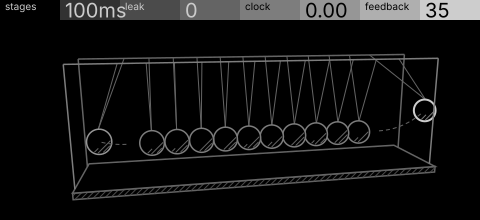
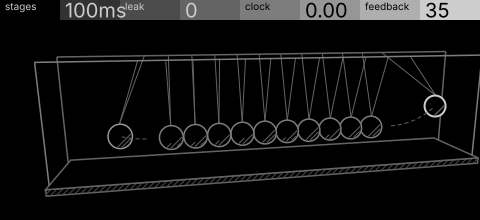
beacon: second subject pass (lighthouse), ready for pick
Claude-Session: https://claude.ai/code/session_01982uVjBmGdMbKRuTtEGgyu

Changed region(s): [[0.0625, 0.2182, 1.0, 0.9273]]

diff --git a/screens/relay/passes/02-subject/sketch.py b/screens/relay/passes/02-subject/sketch.py
@@ -515,6 +515,7 @@ def v3() -> Frame:
     drop = [ck * 1.6 * (rnd.random() - 0.5) * 2 for _ in range(n)]
     dented = {i for i in range(1, n - 1) if rnd.random() < lk * 0.5}
     top, wide, hang = 10.0, 3.2, 8.0
+    fx0, fx1 = -6.5, L + 6.5                   # the frame clears both swinging end balls
 
     out_a = math.radians(42)                   # the note leaving at the output end
     back_a = math.radians(6 + 34 * fb)         # what comes back round to the input
@@ -529,20 +530,19 @@ def v3() -> Frame:
         return (xs[i], 0, pivot_z - l), (xs[i], pivot_z)
 
     cam = Camera(eye=(L * 0.5 - 9, -42, 13), target=(L * 0.5, 0, 4))
-    cam.fit([(-2.5, -wide, -1), (L + 2.5, wide, -1), (-2.5, -wide, top + 0.4), (L + 2.5, wide, top + 0.4),
-             (-hang * 0.8, 0, 2), (L + hang * 0.8, 0, 2)], (34, 34, 446, 206))
+    cam.fit([(fx0, -wide, -1.6), (fx1, wide, -1.6), (fx0, -wide, top + 0.4), (fx1, wide, top + 0.4)], (34, 34, 446, 206))
 
     # the frame: base slab and two end posts, hatched mass on their shadow faces
-    base = box_corners((-2.5, -wide - 1, -1.6), (L + 5, 0, 0), (0, 2 * wide + 2, 0), (0, 0, 0.6))
+    base = box_corners((fx0, -wide - 1, -1.6), (fx1 - fx0, 0, 0), (0, 2 * wide + 2, 0), (0, 0, 0.6))
     for name, W, S in visible_faces(cam, base):
         fr.face(S, G3, LINE)
         if name == "y0":
             fr.hatch(S, G2)
     # back rail first (behind the balls), then strings, balls, front rail
     def rail(dy):
-        return [cam.p((-2.5, dy, top)), cam.p((L + 2.5, dy, top))]
+        return [cam.p((fx0, dy, top)), cam.p((fx1, dy, top))]
     posts = []
-    for px in (-2.5, L + 2.5):
+    for px in (fx0, fx1):
         for dy in (-wide, wide):
             posts.append((px, dy))
     for px, dy in posts:

diff --git a/screens/ants/passes/02-subject/notes.md b/screens/ants/passes/02-subject/notes.md
@@ -1,0 +1,26 @@
+# Ants · pass 02 · subject notes
+
+Five new directions, none revisiting pass 01 (no orrery, elevation, survey plan, field-and-figure or formicarium) or the kept v1. All five are rest frames at the defaults (ants 4, scent 50, fade 30, scale pent), 480 × 220, stock header as the template has it, no text below it, grey only. Generator: `sketch.py` (v5 modelled in 3D and projected through one camera). Lint: 0 errors, 0 warnings on all five (no `text-in-drawing`); 87–92 % of the body black. Uniqueness: `design_pass_submit` → `ready_for_pick`, every pair differs in angle and language, subject overlap ≤ 0.16. Judged at 1:1 from `vN/rest.png`.
+
+**v1 · rule as a real object · single-weight contour.** The colony walking a glockenspiel, one bar per degree; the loop the ants tread across the bars is the phrase.
+Strong: instantly musical and physical, scale literally adds bars, calm and very black. Weak: without the ants it's any melodic machine; the oval loop doesn't show which bars sound.
+
+**v2 · cutaway at work · hatched mass.** One big ant in side elevation, gaster cut open to show the gland and duct laying the trail, antennae reading it, followers on the trail behind.
+Strong: the only one that explains the rule (deposit, sense, evaporate), and scent gets a clean rotation. Weak: shows the rule, not the phrase; a lot of hatching; followers only just read at 30 px; the slab row is close to a strip.
+
+**v3 · the trace left behind · edge-lit silhouette.** A black leaf, margin and veins edge-lit, one vein per degree, the bright trail worn across it.
+Strong: the prettiest, quietest frame. Weak: the leaf is arbitrary (veins as degrees has to be explained), and the self-crossing loop reads as a zigzag.
+
+**v4 · one detail at large scale · detailed line art.** A twig fork, one branch per degree of the octave, a scout ant on the knot swinging onto the scented branch, ants out along it, old scent hatched on unused branches, the rest of the lattice past the frame.
+Strong: one clear subject, the frame edge does real work, every control has a distinct channel (rotation, hatch reach, count, branch count), and it can only be ants. Weak: one decision, not the phrase over time; at chrom twelve branches crowd near the knot.
+
+**v5 · the object in the name · hidden-line 3D.** Modelled ants (ellipsoid bodies, segmented gasters, jointed legs) walking the bright trail between two rows of degree stones, one camera.
+Strong: literal ants, properly built and lit as a family with theseus. Weak: the busiest frame at 1:1 (legs and stones overlap), the costliest (pre-drawn heading variants per ant), and the near row runs off both sides.
+
+## Ranking (the designer's view; the pick is the owner's)
+
+1. v4: the strongest single picture and the most this-machine; the missing phrase could come back as the scented branch's ants landing in step.
+2. v1: the clearest link from ants to notes, and the calmest frame; needs the landings drawn.
+3. v2: the best explanation of the rule, but a diagram of an ant more than a picture of the music.
+4. v5: literal and well modelled, but cluttered and expensive.
+5. v3: lovely, but the leaf isn't the machine.
